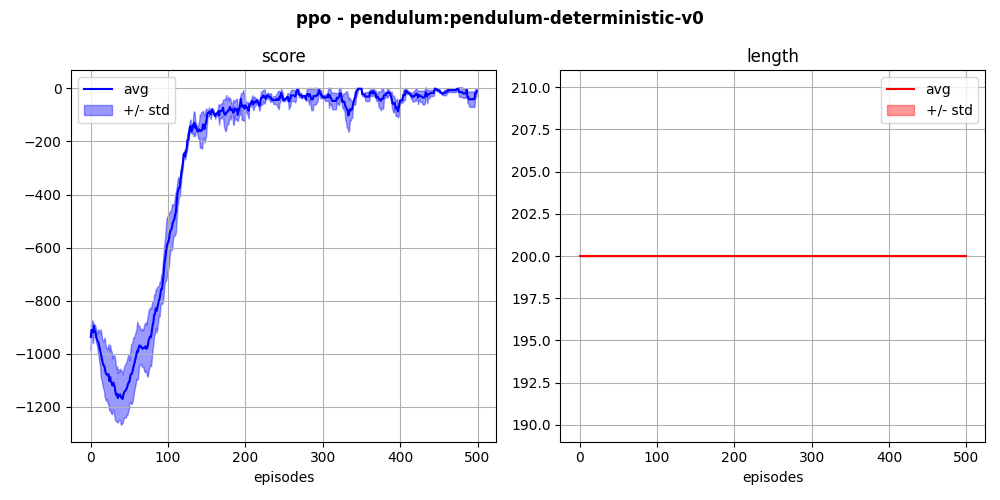
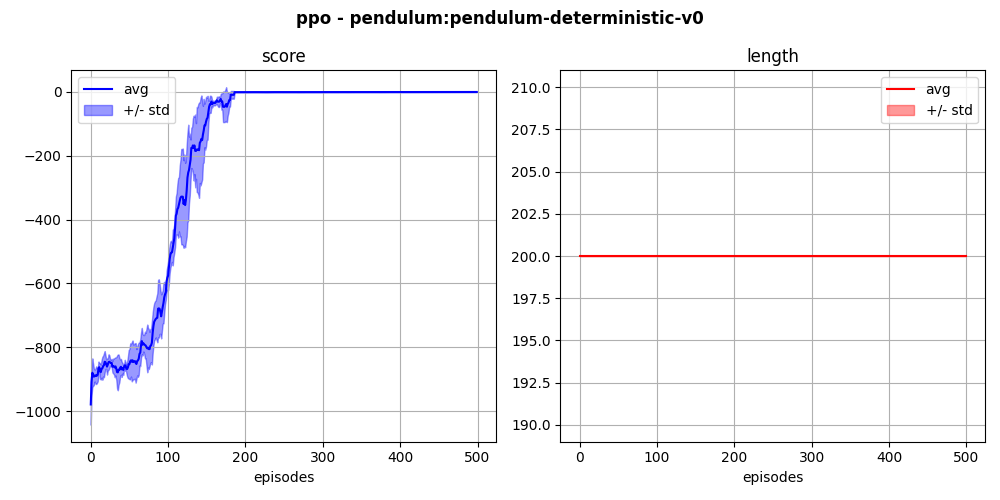
Significant improvement in continuous envs with normal policy (#71)

diff --git a/dragonfly/src/policy/beta.py b/dragonfly/src/policy/beta.py
@@ -2,11 +2,11 @@
 from dragonfly.src.policy.base import *
 
 ###############################################
-### Normal policy class (continuous)
+### Beta policy class (continuous)
 ### obs_dim : input  dimension
 ### act_dim : output dimension
 ### pms     : parameters
-class normal(base_policy):
+class beta(base_policy):
     def __init__(self, obs_dim, act_dim, pms):
 
         # Fill structure
@@ -19,12 +19,12 @@ class normal(base_policy):
         self.kind       = "continuous"
 
         # Define and init network
-        if (pms.network.heads.final[0] != "tanh"):
-            warning("normal", "__init__",
-                    "Final activation for mean network of normal policy is not tanh")
-        if (pms.network.heads.final[1] != "sigmoid"):
-            warning("normal", "__init__",
-                    "Final activation for dev network of normal policy is not sigmoid")
+        if (pms.network.heads.final[0] != "softplus"):
+            warning("beta", "__init__",
+                    "Final activations for beta policy network is not softplus")
+        if (pms.network.heads.final[1] != "softplus"):
+            warning("beta", "__init__",
+                    "Final activations for beta policy network is not softplus")
 
         self.net = net_factory.create(pms.network.type,
                                       inp_dim = obs_dim,
@@ -47,6 +47,8 @@ class normal(base_policy):
     def get_actions(self, obs):
 
         act, lgp = self.sample(obs)
+        act      = tf.scalar_mul(2.0,act)
+        act      = tf.add(act,-1.0)
         act      = np.reshape(act.numpy(), (self.store_dim))
 
         return act, lgp
@@ -64,6 +66,14 @@ class normal(base_policy):
 
         return act, lgp
 
+    # # Map actiona from [-1,1] to natural range
+    # def map_act(self, act):
+
+    #     a = tf.add(1.0,act)
+    #     a = tf.scalar_mul(0.5,a)
+
+    #     return a
+
     # Compute pdf
     def compute_pdf(self, obs):
 
@@ -71,20 +81,22 @@ class normal(base_policy):
         obs = tf.cast(obs, tf.float32)
 
         # Get pdf
-        mu, sg = self.call_net(obs)
-        pdf    = tfd.MultivariateNormalDiag(loc        = mu,
-                                            scale_diag = sg)
+        alpha, beta = self.call_net(obs)
+        alpha       = 1.0+tf.scalar_mul(2.0,alpha)
+        beta        = 1.0+tf.scalar_mul(2.0,beta)
+        pdf         = tfd.Beta(concentration1 = alpha,
+                               concentration0 = beta)
 
         return pdf
 
     # Networks forward pass
     def call_net(self, state):
 
-        out = self.net.call(state)
-        mu  = out[0]
-        sg  = out[1]
+        out   = self.net.call(state)
+        alpha = out[0]
+        beta  = out[1]
 
-        return mu, sg
+        return alpha, beta
 
     # Call loss for training
     def train(self, obs, adv, act, lgp):

diff --git a/dragonfly/src/policy/policy.py b/dragonfly/src/policy/policy.py
@@ -2,6 +2,7 @@
 from dragonfly.src.core.factory       import *
 from dragonfly.src.policy.categorical import *
 from dragonfly.src.policy.normal      import *
+from dragonfly.src.policy.beta        import *
 
 # Declare factory
 pol_factory = factory()
@@ -9,4 +10,5 @@ pol_factory = factory()
 # Register policies
 pol_factory.register("categorical", categorical)
 pol_factory.register("normal",      normal)
+pol_factory.register("beta",        beta)
 

diff --git a/dragonfly/tst/policy/test_normal.py b/dragonfly/tst/policy/test_normal.py
@@ -27,6 +27,11 @@ def test_normal():
     act, lgp = policy.get_actions(obs)
     print("Actions:",act)
 
-    assert(np.all(act <= 1.0))
-    assert(np.all(act >=-1.0))
+    obs = tf.cast([obs], tf.float32)
+    mu, sg = policy.call_net(obs)
+    assert(np.all(np.abs(mu) < 1.0))
+    assert(np.all(np.abs(sg) < 1.0))
+    assert(np.all(np.abs(sg) > 0.0))
+
+
     print("")

diff --git a/dragonfly/src/envs/par_envs.py b/dragonfly/src/envs/par_envs.py
@@ -175,6 +175,7 @@ class par_envs:
         for cpu in range(self.n_cpu):
             act = actions[cpu]
             if (self.act_norm):
+                act = np.clip(act,-1.0,1.0)
                 for i in range(self.act_dim):
                     act[i] = self.act_rng[i]*act[i] + self.act_avg[i]
 

diff --git a/dragonfly/save/lunarlander/README.md b/dragonfly/save/lunarlander/README.md
@@ -7,8 +7,14 @@ The agent learns to land on a landing pad using 4 discrete actions.
   <img width="300" alt="" src="good.gif">
 </p>
 
-Here is a resolution with PPO, using buffer-based training:
+Here is a resolution of the discrete environment with PPO, using buffer-based training:
 
 <p align="center">
-  <img width="700" alt="" src="ppo_buffer.png">
+  <img width="700" alt="" src="ppo_buffer_discrete.png">
+</p>
+
+Below is a resolution of the continuous environment, also with PPO:
+
+<p align="center">
+  <img width="700" alt="" src="ppo_buffer_continuous.png">
 </p>

diff --git a/dragonfly/save/cartpole/README.md b/dragonfly/save/cartpole/README.md
@@ -10,13 +10,13 @@ The agent learns to balance a pole fixed to a moving cart, using discrete latera
 Here is a resolution with PPO, using buffer-based training:
 
 <p align="center">
-  <img width="700" alt="" src="ppo_buffer.png">
+  <img width="700" alt="" src="ppo_buffer_discrete.png">
 </p>
 
 and using episode-based training:
 
 <p align="center">
-  <img width="700" alt="" src="ppo_episode.png">
+  <img width="700" alt="" src="ppo_episode_discrete.png">
 </p>
 
 Below is a resolution of a continuous version of the cartpole environment, using buffer-based PPO:
